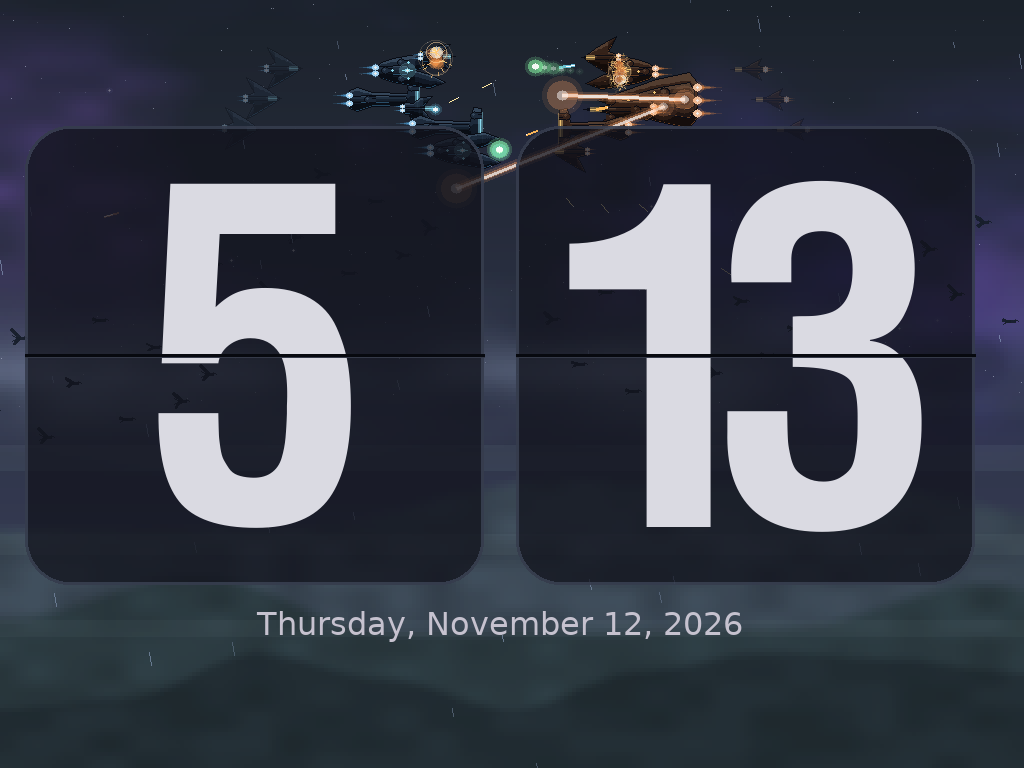
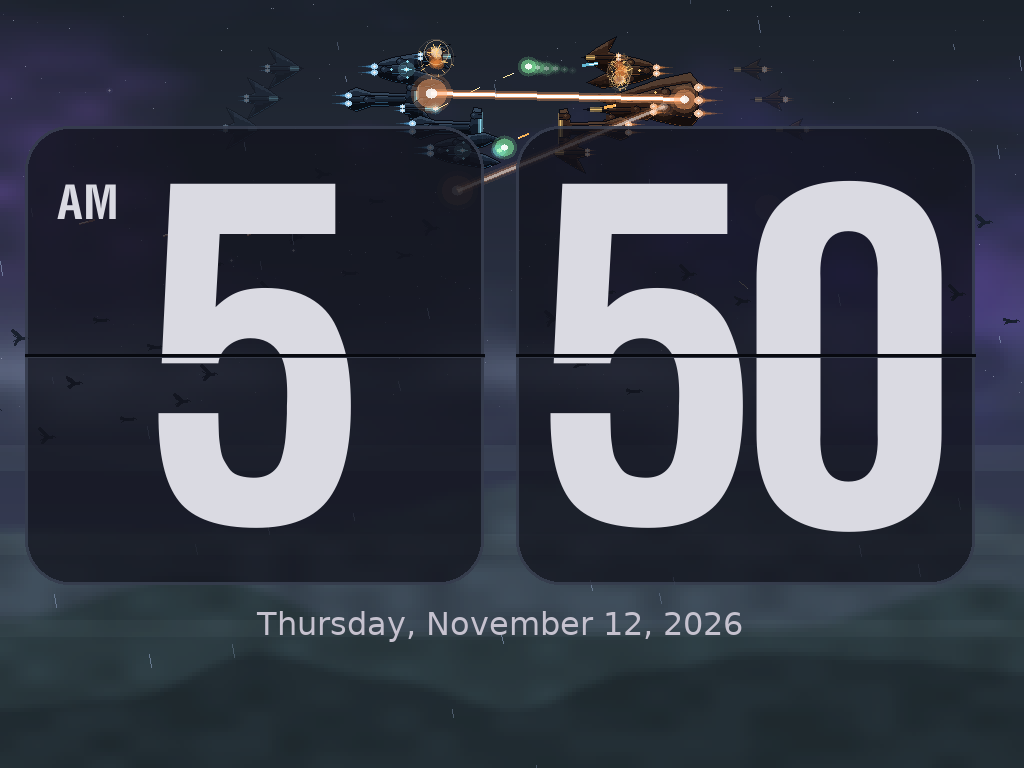
events: ten more sky and hill; preview in 12-hour mode

diff --git a/gluqlo.c b/gluqlo.c
@@ -238,7 +238,7 @@ enum { GROUP_NONE = 0, GROUP_TAKEOVER, GROUP_SKY };
 
 #define RARE_SKY_KINDS 89
 #define RARE_SKY_CLASSIC_KINDS 23   // kinds below this use the four classic sky objects
-#define HILL_EVENT_KINDS 47         // things that happen on the hills (see render_hill_event)
+#define HILL_EVENT_KINDS 50         // things that happen on the hills (see render_hill_event)
 
 typedef struct {
 	const char *name;
@@ -4513,6 +4513,99 @@ static void hill_shepherd(const HillEvent *event) {
 	filledEllipseRGBA(surface, (int)dx, (int)(hill_ground(event, dx) - s * 0.008), (int)(s * 0.01), (int)(s * 0.006), 14, 18, 26, alpha);
 }
 
+// An arched stone bridge over a stream; a lantern-carrying traveller crosses and the water glints beneath.
+static void hill_bridge(const HillEvent *event) {
+	SDL_Surface *surface = event->surface;
+	double s = event->scale;
+	int d = event->direction;
+	double cx = surface->w * 0.5, span = s * 0.2;
+	double ground = hill_ground(event, cx);
+	double rise = smooth_step(0.0, 0.12, event->progress) * (1.0 - smooth_step(0.94, 0.98, event->progress));
+	Uint8 alpha = weapon_alpha(236.0 * event->fade);
+	filledEllipseRGBA(surface, (int)cx, (int)(ground + s * 0.006), (int)(span * 1.2 * rise), (int)(s * 0.008 * rise) + 1, 40, 80, 110, weapon_alpha(200.0 * event->fade));
+	for(int k = 0; k < 14; k++) {
+		double gx = cx - span * 1.1 + fmod(k * 37.0 + event->t * 6.0, span * 2.2);
+		pixelRGBA(surface, (int)gx, (int)(ground + s * 0.006 + sin(k * 3.0) * 2.0), 190, 225, 245, weapon_alpha(160.0 * rise * event->fade));
+	}
+	for(int i = 0; i < 24; i++) {
+		double u0 = -1.0 + 2.0 * i / 24.0, u1 = -1.0 + 2.0 * (i + 1) / 24.0;
+		double y0 = ground - s * 0.03 * rise * (1.0 - u0 * u0), y1 = ground - s * 0.03 * rise * (1.0 - u1 * u1);
+		thickLineRGBA(surface, (int)(cx + u0 * span), (int)y0, (int)(cx + u1 * span), (int)y1, 4, 52, 56, 72, alpha);
+	}
+	for(int i = 0; i <= 8; i++) {
+		double u = -1.0 + 2.0 * i / 8.0;
+		lineRGBA(surface, (int)(cx + u * span), (int)(ground - s * 0.03 * rise * (1.0 - u * u)), (int)(cx + u * span), (int)(ground - s * 0.03 * rise * (1.0 - u * u) - s * 0.008), 30, 34, 48, alpha);
+	}
+	double u = (event->progress - 0.25) / 0.5;
+	if(u > 0.0 && u < 1.0) {
+		double px = cx + d * (-1.2 + 2.4 * u) * span;
+		double nu = (px - cx) / span;
+		double py = ground - s * 0.03 * (1.0 - fmin(1.0, nu * nu));
+		hill_walker(surface, px, py, s * 0.036, d, event->t * 5.0, true, event->fade, event->t, 0);
+	}
+}
+
+// Carved totem poles stand in a row; their eyes open one after another and glow.
+static void hill_totems(const HillEvent *event) {
+	SDL_Surface *surface = event->surface;
+	double s = event->scale;
+	const int poles = 5;
+	Uint8 alpha = weapon_alpha(238.0 * event->fade);
+	static const Uint8 eye[3] = { 255, 190, 90 };
+	for(int i = 0; i < poles; i++) {
+		int order = event->direction > 0 ? i : poles - 1 - i;
+		double x = surface->w * (0.1 + 0.8 * (i + 0.5) / poles);
+		double ground = hill_ground(event, x);
+		double rise = smooth_step(0.0 + i * 0.03, 0.1 + i * 0.03, event->progress);
+		double h = s * (0.07 + 0.015 * (i % 3)) * rise, w = s * 0.012;
+		double awake = smooth_step(0.2 + order * 0.08, 0.28 + order * 0.08, event->progress) * (1.0 - smooth_step(0.9, 0.97, event->progress));
+		boxRGBA(surface, (int)(x - w), (int)(ground - h), (int)(x + w), (int)ground, 54, 40, 40, alpha);
+		boxRGBA(surface, (int)(x - w), (int)(ground - h), (int)(x - w * 0.4), (int)ground, 74, 54, 50, alpha);
+		for(int face = 0; face < 3; face++) {
+			double fy = ground - h * (0.2 + 0.28 * face);
+			boxRGBA(surface, (int)(x - w), (int)(fy - w * 0.15), (int)(x + w), (int)(fy + w * 0.15), 30, 22, 24, alpha);
+			for(int side = -1; side <= 1; side += 2) {
+				weapon_glow(surface, x + side * w * 0.45, fy - w * 0.5, 1.4, eye, 235.0 * awake * event->fade * (0.8 + 0.2 * sin(event->t * 3.0 + i + face)));
+			}
+		}
+		filledTrigonRGBA(surface, (int)(x - w * 1.3), (int)(ground - h), (int)(x + w * 1.3), (int)(ground - h), (int)x, (int)(ground - h - w * 1.6), 100, 44, 46, alpha);
+	}
+}
+
+// Snowmen build themselves ball by ball, then wave their twig arms as snow drifts down around them.
+static void hill_snowmen(const HillEvent *event) {
+	SDL_Surface *surface = event->surface;
+	double s = event->scale;
+	const int count = 4;
+	Uint8 alpha = weapon_alpha(238.0 * event->fade);
+	for(int i = 0; i < count; i++) {
+		double x = surface->w * (0.12 + 0.76 * (i + 0.5) / count);
+		double ground = hill_ground(event, x);
+		double r = s * (0.016 + 0.003 * (i % 2));
+		double b1 = smooth_step(0.02 + i * 0.05, 0.08 + i * 0.05, event->progress);
+		double b2 = smooth_step(0.08 + i * 0.05, 0.14 + i * 0.05, event->progress);
+		double b3 = smooth_step(0.14 + i * 0.05, 0.2 + i * 0.05, event->progress);
+		filledCircleRGBA(surface, (int)x, (int)(ground - r * b1), (int)(r * b1) + 1, 224, 234, 244, alpha);
+		filledCircleRGBA(surface, (int)x, (int)(ground - r * 2.0 - r * 0.7 * b2), (int)(r * 0.75 * b2) + 1, 232, 240, 248, alpha);
+		double hy = ground - r * 2.0 - r * 1.4 - r * 0.5 * b3;
+		filledCircleRGBA(surface, (int)x, (int)hy, (int)(r * 0.55 * b3) + 1, 238, 244, 250, alpha);
+		if(b3 < 0.9) continue;
+		filledTrigonRGBA(surface, (int)(x + 1), (int)hy, (int)(x + r * 0.9), (int)(hy + 1), (int)x, (int)(hy + 2), 230, 120, 50, alpha);
+		pixelRGBA(surface, (int)(x - r * 0.2), (int)(hy - r * 0.15), 20, 24, 32, alpha);
+		pixelRGBA(surface, (int)(x + r * 0.2), (int)(hy - r * 0.15), 20, 24, 32, alpha);
+		double wave = sin(event->t * 4.0 + i * 1.3) * r * 0.5;
+		double sy = ground - r * 2.8;
+		thickLineRGBA(surface, (int)(x - r * 0.6), (int)sy, (int)(x - r * 1.5), (int)(sy - r * 0.2 + wave), 1, 70, 50, 40, alpha);
+		thickLineRGBA(surface, (int)(x + r * 0.6), (int)sy, (int)(x + r * 1.5), (int)(sy - r * 0.2 - wave), 1, 70, 50, 40, alpha);
+	}
+	for(int f = 0; f < 36; f++) {
+		double r1 = hill_random(event, f, 1), r2 = hill_random(event, f, 2);
+		double u = fmod(event->t * (0.12 + 0.08 * r2) + r1, 1.0);
+		double fx = surface->w * r1 + sin(event->t + f) * s * 0.01, fy = surface->h * 0.55 + u * (surface->h * 0.4);
+		filledCircleRGBA(surface, (int)fx, (int)fy, 1, 225, 235, 245, weapon_alpha(200.0 * (1.0 - u * 0.4) * event->fade));
+	}
+}
+
 // NEW_HILL_EVENTS_ABOVE (new hill_xxx() functions go above this line)
 
 static void (*const hill_event_kinds[])(const HillEvent *) = {
@@ -4539,6 +4632,9 @@ static void (*const hill_event_kinds[])(const HillEvent *) = {
 	hill_pagoda,
 	hill_skaters,
 	hill_shepherd,
+	hill_bridge,
+	hill_totems,
+	hill_snowmen,
 	// NEW_HILL_KINDS_ABOVE
 };
 static_assert(sizeof(hill_event_kinds) / sizeof(hill_event_kinds[0]) == HILL_EVENT_KINDS,
